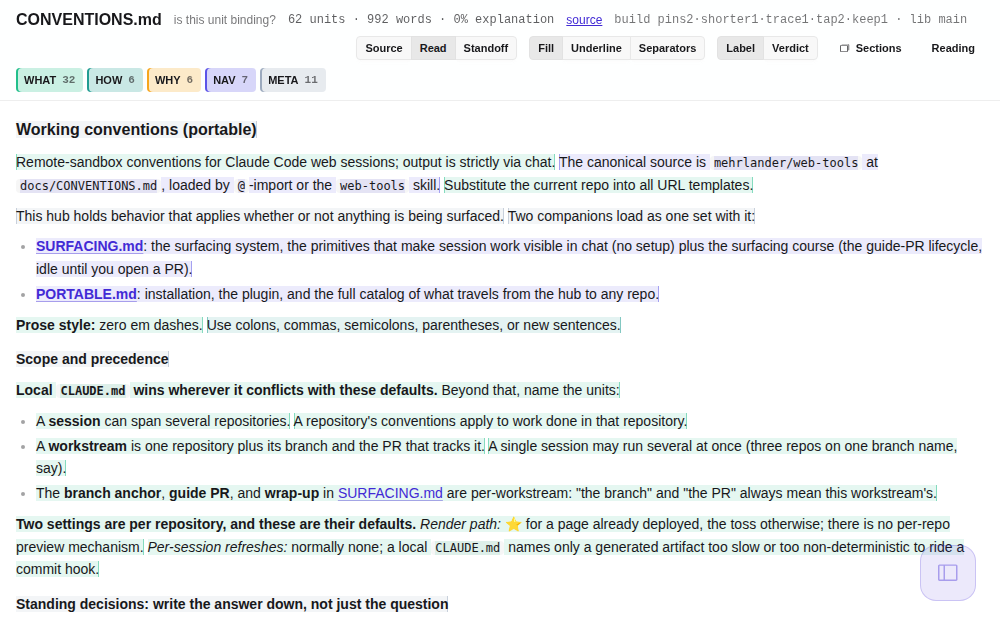
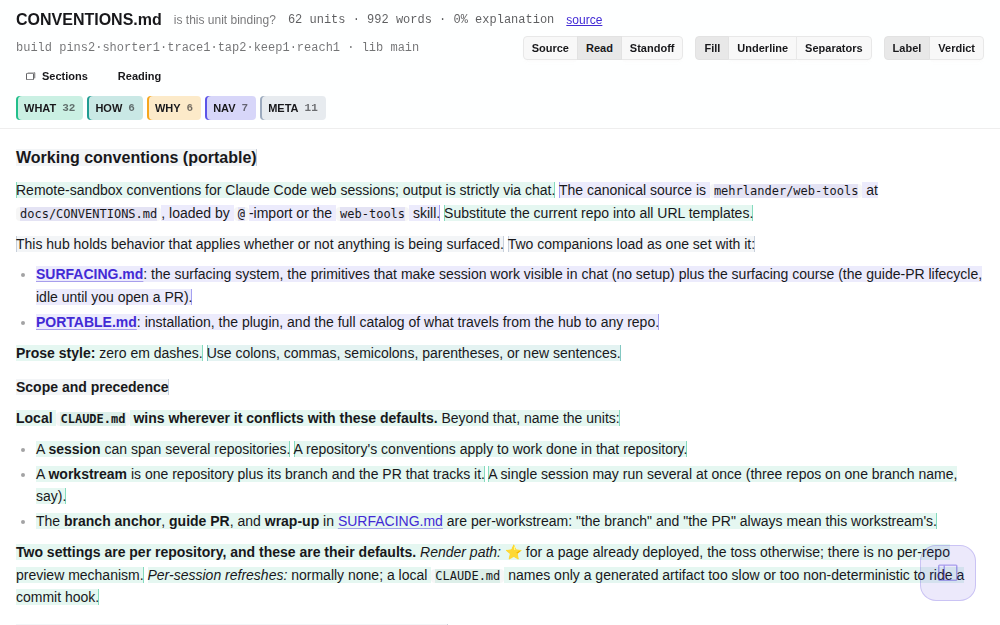
A boundary reaches past its pair, absorbing what it crosses
Refusing stated the operation's definition rather than answering the intent. A
shift moves one boundary within one pair; reaching further is merges and then a
shift, which the panel already offers one span at a time as Merge next. So the
tap now performs that sequence.

It is counted because of what it costs: a merge's survivor keeps the LEFT
unit's label and verdict, so each absorbed span loses its judgment, its verdict
and its note, which on this page is the product. The panel names them, one per
span (absorbed 2 spans: NAV KEEP, META KEEP), and each merge is its own patch
entry, so undo walks back through the sequence a step at a time and ops.py
replays the same operations.

Forward only, and the asymmetry is the merge convention rather than a
preference: reaching back, the survivor's left uid means the span the reader is
pointing at is the one destroyed, so the gesture would eat the subject rather
than the ground it crosses. That direction still refuses and now says why.

audit-absorb.mjs holds it: the reported count matches the units that
disappeared, the units still tile, check() has no complaint, the boundary lands
on the tap, and the patch grows by the merges plus one.

Claude-Session: https://claude.ai/code/session_01KzihRRDhvDjbgPHfbtrniE

diff --git a/pages/audit-render.html b/pages/audit-render.html
@@ -960,6 +960,7 @@ window.__audit = {
         Array.isArray(this.trace) && 'trace1',            // the on-screen gesture trace
         'tap2',                                           // a click must carry its own tap
         this.push.length > 1 && 'keep1',                  // an edit keeps the reader's subject selected
+        typeof this.absorbTo === 'function' && 'reach1',  // a boundary reaches past its pair, counted
       ].filter(Boolean);
       return `build ${has.join('·') || 'base'} · lib ${(this.ref || 'main').slice(0, 7)}`;
     },
@@ -1060,8 +1061,9 @@ window.__audit = {
       if (op.op === 'shift') {
         if (i < 0 || i + 1 >= us.length)
           return 'nothing follows this boundary, so there is no pair to move it within';
-        return 'a boundary moves only within the two spans it separates: '
-             + `“${q(us[i], true)}” and “${q(us[i + 1])}”`;
+        return 'reaching back would absorb the span you are pointing at rather '
+             + `than the ground between: tap inside “${q(us[i], true)}” or `
+             + `“${q(us[i + 1])}”`;
       }
       if (op.op === 'split') return 'a split needs text on both sides of the point';
       if (op.op === 'merge') return 'nothing follows this span to merge it with';
@@ -1096,7 +1098,7 @@ window.__audit = {
         this.so.units = before;
         this.opErr = uid === null ? this.refusal(op) : bad[0];
         this.say(`refused: ${bad[0]}`);
-        return;
+        return false;
       }
       this.say(`${op.op} ${op.after ?? op.uid} -> ${op.to ?? op.at ?? ''} ok`);
       this.opErr = '';
@@ -1111,6 +1113,44 @@ window.__audit = {
       const u = this.units.find(x => x.uid === keep) || this.units.find(x => x.uid === uid);
       this.sel = u ? { ...u, ref: this.srcRef(u) } : null;
       this.paint();
+      return true;
+    },
+
+    // REACHING PAST THE PAIR IS NOT A SHIFT, IT IS MERGES AND THEN A SHIFT, and
+    // that is the whole of why a tap out there used to be refused: the
+    // operation was keeping its own definition, not ruling the intent out. The
+    // intent is already sanctioned on this panel, since Merge next absorbs the
+    // following span with one tap.
+    //
+    // What it costs is the reason it is counted rather than silent. A merge's
+    // survivor keeps the LEFT unit's label and verdict, so every span absorbed
+    // loses its judgment, its verdict and its note, which on this page is the
+    // product. Three spans crossed is three judgments gone behind a gesture
+    // that looks like an edge moving. So the spans are named as they go and
+    // each merge is its own patch entry, which is what lets undo step back
+    // through them one at a time and lets ops.py replay the same sequence.
+    //
+    // FORWARD ONLY, and the asymmetry is the merge convention rather than a
+    // preference. Reaching right, the boundary's left unit absorbs what it
+    // crosses and the survivor is the unit the reader is working from.
+    // Reaching left, the span the reader is pointing at would be the one
+    // destroyed, since the survivor keeps the left uid: the gesture would eat
+    // the subject rather than the ground it is crossing. That case still
+    // refuses, and says so.
+    absorbTo(after, to) {
+      const lost = [];
+      for (let guard = 0; guard < 40; guard++) {
+        const us = [...this.units].sort((a, b) => a.start - b.start);
+        const i = us.findIndex(x => x.uid === after);
+        if (i < 0 || i + 1 >= us.length) return null;
+        const u = us[i], n = us[i + 1];
+        if (u.start < to && to < n.end) return lost;   // the pair now reaches it
+        if (to <= u.start) return null;                // leftward: see above
+        if (i + 2 >= us.length) return null;           // nothing past it to keep
+        lost.push({ label: n.label || '', verdict: n.verdict || 'KEEP' });
+        if (!this.push({ op: 'merge', uid: u.uid }, this.sel?.uid)) return null;
+      }
+      return null;
     },
     nextOf(uid) { return this.units[this.units.findIndex(u => u.uid === uid) + 1]; },
 
@@ -1464,6 +1504,19 @@ window.__audit = {
         // through and selects, which is what it would have done unarmed, rather
         // than pushing a shift both implementations would refuse.
         if (e && e.shiftable) {
+          const us = [...this.units].sort((a, b) => a.start - b.start);
+          const i = us.findIndex(x => x.uid === e.after);
+          const past = i >= 0 && i + 1 < us.length && off >= us[i + 1].end;
+          if (past) {
+            const lost = this.absorbTo(e.after, off);
+            if (lost && lost.length) {
+              this.push({ op: 'shift', after: e.after, to: off }, this.sel?.uid);
+              const what = lost.map(l => `${l.label} ${l.verdict}`).join(', ');
+              this.opErr = `absorbed ${lost.length} span${lost.length > 1 ? 's' : ''}: ${what}`;
+              this.say(`absorbed ${lost.length} (${what})`);
+              return;
+            }
+          }
           this.push({ op: 'shift', after: e.after, to: off }, this.sel?.uid);
           return;
         }
